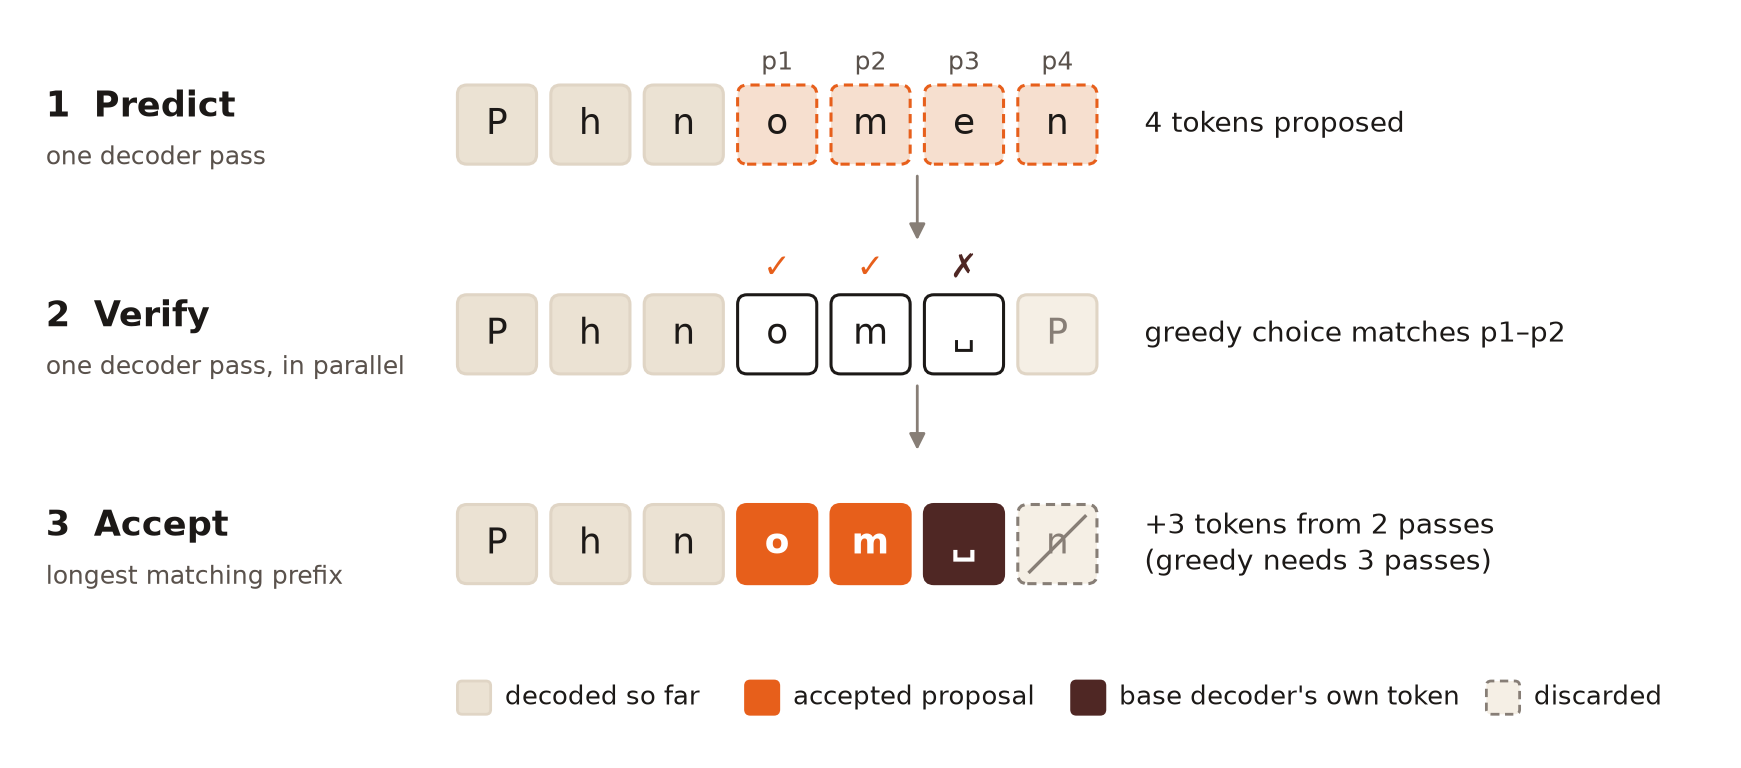
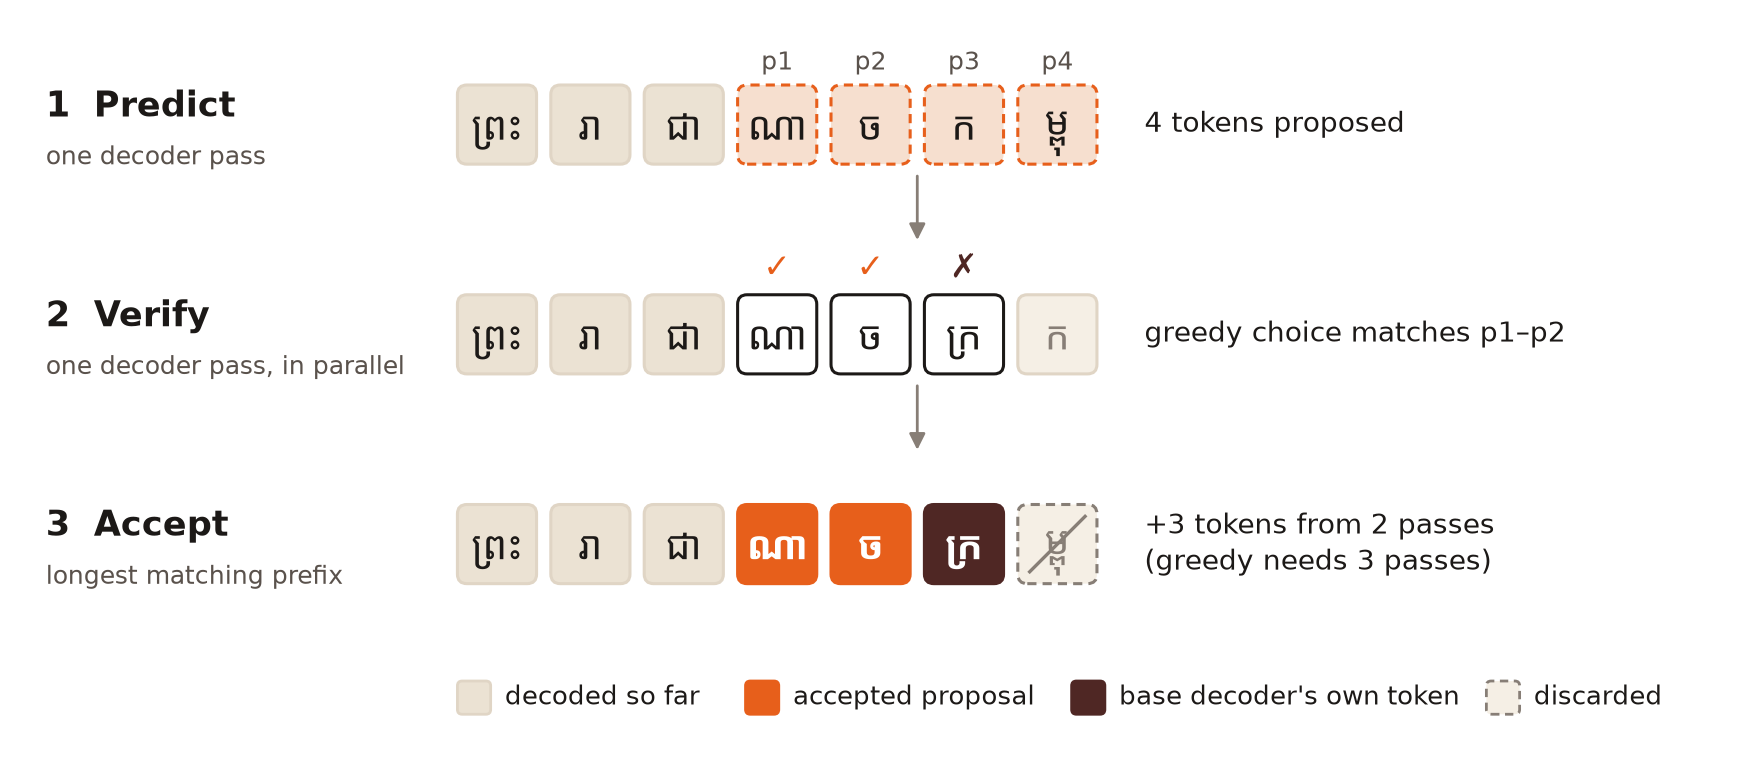
update

diff --git a/assets/make_figures.py b/assets/make_figures.py
@@ -167,11 +167,12 @@ def block_diagram(kinds, before, after, out, before_title, after_title, arrow_la
     plt.close(fig)
 
 
-def blockwise_steps(prefix, proposals, greedy, out, block_size=4):
+def blockwise_steps(prefix, proposals, greedy, out, block_size=4, token_font="Noto Sans Khmer"):
     """One step of blockwise parallel decoding (Stern et al. 2018), as three rows: predict, verify, accept.
 
     prefix:    tokens decoded so far
     proposals: the block_size tokens proposed in one pass (p1 is the base decoder itself, so it always matches)
+    token_font: font for the tokens; Khmer clusters need one with Khmer glyphs
     greedy:    the base decoder's own greedy choice at each proposed position, from one verification pass
     """
     n_ok = next((i for i, (p, g) in enumerate(zip(proposals, greedy)) if p != g), block_size)
@@ -186,8 +187,8 @@ def blockwise_steps(prefix, proposals, greedy, out, block_size=4):
     def box(i, y, tok, fc, ec, ls="-", tc=INK, strike=False, weight="normal"):
         ax.add_patch(FancyBboxPatch((xs[i], y), w, h, boxstyle="round,pad=0,rounding_size=0.12",
                                     fc=fc, ec=ec, lw=1.1, ls=ls))
-        ax.text(xs[i] + w / 2, y + h / 2, "␣" if tok == " " else tok, ha="center", va="center", fontsize=13,
-                color=tc, weight=weight)
+        ax.text(xs[i] + w / 2, y + h / 2, "␣" if tok == " " else tok, ha="center", va="center", fontsize=14,
+                color=tc, weight=weight, family=token_font)
         if strike:
             ax.plot([xs[i] + 0.15, xs[i] + w - 0.15], [y + 0.15, y + h - 0.15], color=COLOR["muted-2"], lw=1.2)
 
@@ -272,9 +273,10 @@ def main(out_dir: Path) -> None:
                         ("Netra-OCR", [0.96, 5.31, 2.95], None)])],
                  labels, out_dir / "results.png", ylabel="Character error rate (%), lower is better",
                  ylim=(0, 105), legend_top=True)
-    # an English line, so the tokens are single characters: "Phn" decoded, the head proposes "omen",
-    # the base decoder's greedy choice is "om P" -> accept "om" plus its own " "
-    blockwise_steps(list("Phn"), list("omen"), list("om P"), out_dir / "blockwise_decoding.png")
+    # ព្រះរាជាណាចក្រកម្ពុជា as the cluster tokenizer splits it. The head drops the subscript of ក្រ at p3, so the
+    # base decoder keeps ណា ច and adds its own ក្រ
+    blockwise_steps(["ព្រះ", "រា", "ជា"], ["ណា", "ច", "ក", "ម្ពុ"], ["ណា", "ច", "ក្រ", "ក"],
+                    out_dir / "blockwise_decoding.png")
     print("wrote results.png, blockwise_decoding.png in", out_dir)
 
 

diff --git a/readme.md b/readme.md
@@ -106,7 +106,7 @@ Netra-OCR was trained entirely on synthetic data: **1.3M** text-line images, of 
   <img src="https://raw.githubusercontent.com/netra-ai-lab/Netra-OCR/master/assets/blockwise_decoding.png" width="900" alt="One step of blockwise parallel decoding: the head proposes 4 tokens, the decoder checks them in one pass, and the matching prefix plus the decoder's own next token are kept" />
 </p>
 
-<p><em>Figure 3: One step of blockwise parallel decoding. (1) The proposal head guesses the next 4 tokens at once. (2) The decoder reads them in one parallel pass and gives its own greedy choice at each position. (3) Proposals are kept up to the first disagreement, and the decoder's own token at that point is added. Every kept token is one greedy decoding would also write, so the output is identical.</em></p>
+<p><em>Figure 3: One step of blockwise parallel decoding, reading ព្រះរាជាណាចក្រកម្ពុជា (“Kingdom of Cambodia”) one character cluster per token. (1) The proposal head guesses the next 4 tokens at once. (2) The decoder reads them in one parallel pass and gives its own greedy choice at each position. (3) Proposals are kept up to the first disagreement, and the decoder's own token at that point is added. Every kept token is one greedy decoding would also write, so the output is identical.</em></p>
 
 Speed on KHOB (325 lines), same model, greedy decoding:
 

diff --git a/docs/MODEL_CARD.md b/docs/MODEL_CARD.md
@@ -73,7 +73,7 @@ The two released checkpoints share one model and differ only in decoding. The `b
 
 <p align="center"><img src="https://huggingface.co/Darayut/khmer-text-recognition/resolve/main/assets/blockwise_decoding.png" width="90%" alt="One step of blockwise parallel decoding: propose 4 tokens, verify them in one pass, keep the matching prefix plus the decoder's own next token"></p>
 
-*One decoding step.* The head proposes 4 tokens, the model checks them in one parallel pass, and the proposals are kept up to the first disagreement, plus the model's own token there. Every kept token is one greedy decoding would write, so the output is identical.
+*One decoding step*, reading ព្រះរាជាណាចក្រកម្ពុជា (“Kingdom of Cambodia”) one character cluster per token. The head proposes 4 tokens, the model checks them in one parallel pass, and the proposals are kept up to the first disagreement, plus the model's own token there. Every kept token is one greedy decoding would write, so the output is identical.
 
 On KHOB (325 lines, greedy decoding):
 
